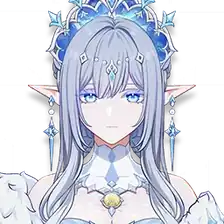
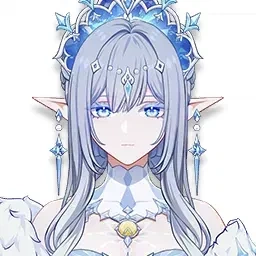
Replace Anastasia profile and illustration with higher-quality images
- anastasia.webp: 224px -> 256px from new source
- art.webp: 720x405 -> 1024x1024 full illustration
- Show the illustration at its natural aspect instead of cropping to 16:9

Claude-Session: https://claude.ai/code/session_01UfVT9mJCBWvUoZGjYUiiT1

diff --git a/src/index.html b/src/index.html
@@ -52,7 +52,7 @@ a.card:focus-visible{outline:3px solid var(--ink);outline-offset:3px}
 .back:hover{color:var(--ink)}
 .back:focus-visible{outline:3px solid var(--ink);outline-offset:2px}
 .art{margin:8px 0 0;border:3px solid var(--gold1);border-radius:14px;overflow:hidden;background:#fff}
-.art img{display:block;width:100%;height:auto;aspect-ratio:16/9;object-fit:cover}
+.art img{display:block;width:100%;height:auto}
 /* weapons */
 .wsec{margin-top:40px}
 .whead{display:flex;align-items:center;gap:14px;margin:0 0 16px;padding-bottom:12px;border-bottom:1px solid var(--gold2)}
